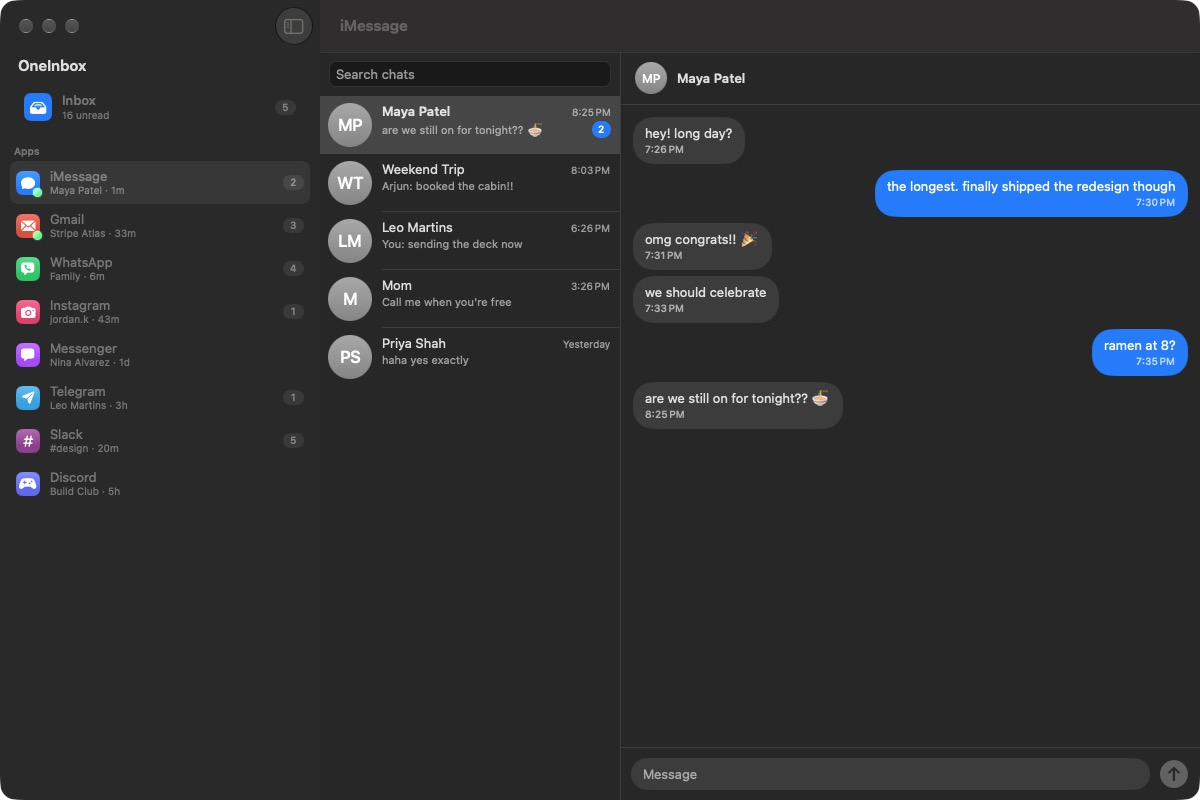
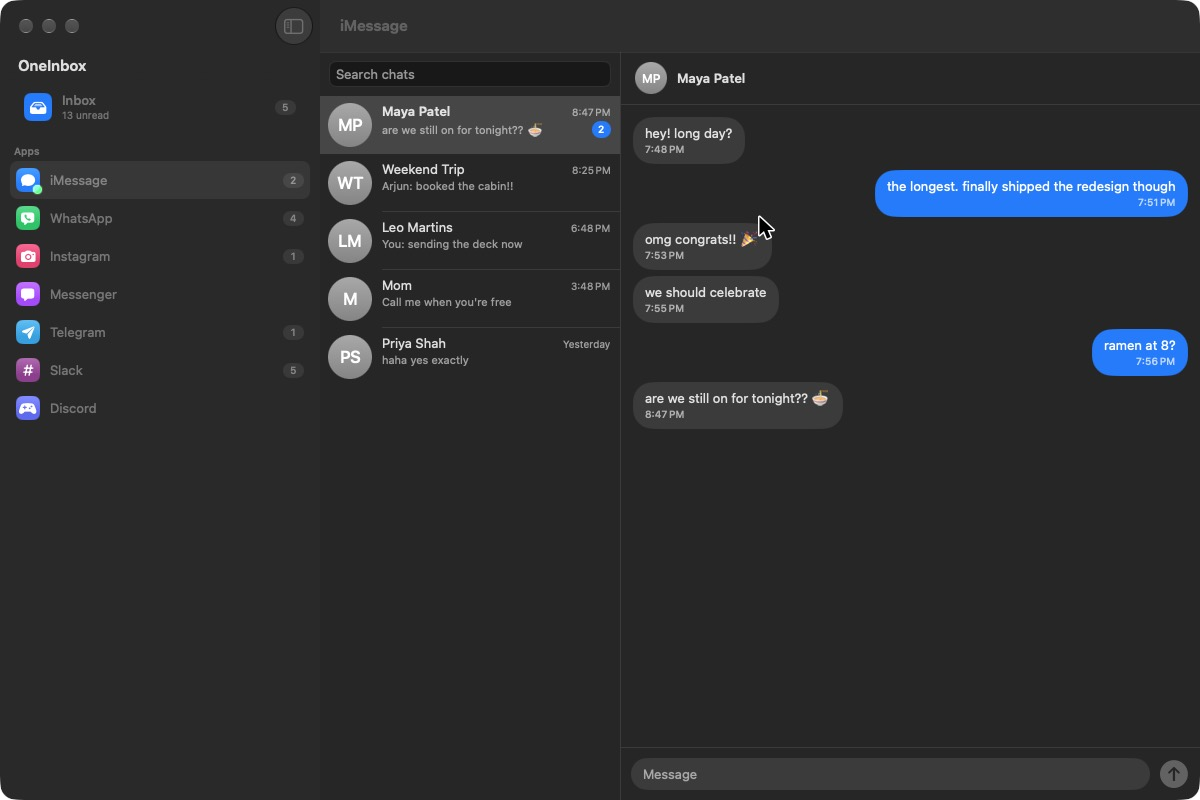
OneInbox: drop Gmail, require macOS 15, refresh screenshots

Changed region(s): [[0.0, 0.1875, 0.0925, 0.625], [0.6167, 0.2812, 0.6475, 0.3125], [0.555, 0.3125, 0.5858, 0.3438]]

diff --git a/public/apps/oneinbox/index.html b/public/apps/oneinbox/index.html
@@ -4,11 +4,11 @@
 <meta charset="utf-8">
 <meta name="viewport" content="width=device-width, initial-scale=1">
 <title>OneInbox — Every message. One quiet place. For Mac.</title>
-<meta name="description" content="OneInbox brings iMessage, Gmail, WhatsApp, Instagram, Messenger, Telegram, Slack and Discord into one calm, native Mac app. Early access: $19 one-time.">
+<meta name="description" content="OneInbox brings iMessage, WhatsApp, Instagram, Messenger, Telegram, Slack and Discord into one calm, native Mac app. Early access: $19 one-time.">
 <link rel="icon" type="image/png" href="/apps/oneinbox/icon.png">
 <link rel="apple-touch-icon" href="/apps/oneinbox/icon.png">
 <meta property="og:title" content="OneInbox — Every message. One quiet place.">
-<meta property="og:description" content="iMessage, Gmail, WhatsApp, Instagram, Messenger, Telegram, Slack and Discord in one native Mac app.">
+<meta property="og:description" content="iMessage, WhatsApp, Instagram, Messenger, Telegram, Slack and Discord in one native Mac app.">
 <meta property="og:image" content="https://www.dashovia.com/apps/oneinbox/inbox.jpg">
 <meta property="og:url" content="https://www.dashovia.com/apps/oneinbox/">
 <meta name="twitter:card" content="summary_large_image">
@@ -119,20 +119,20 @@
 <main>
   <header class="hero">
     <div class="wrap">
-      <span class="pill">Early access · macOS 14 or later</span>
+      <span class="pill">Early access · macOS 15 or later</span>
       <h1>Every message. One quiet place.</h1>
-      <p class="lede">OneInbox brings iMessage, Gmail, WhatsApp and the rest of your chats into one calm, native Mac app. Stop checking eight apps. Check one.</p>
+      <p class="lede">OneInbox brings iMessage, WhatsApp, Slack and the rest of your chats into one calm, native Mac app. Stop checking seven apps. Check one.</p>
       <div class="cta">
         <a class="btn buy" href="#pricing">Get early access — $19</a>
         <a class="btn ghost" href="#features">See how it works ›</a>
       </div>
       <p class="faint cta-note">One-time payment. Goes up to $29 at version 1.0.</p>
       <div class="apps" aria-label="Supported apps">
-        <span>iMessage</span><span>Gmail</span><span>WhatsApp</span><span>Instagram</span>
+        <span>iMessage</span><span>WhatsApp</span><span>Instagram</span>
         <span>Messenger</span><span>Telegram</span><span>Slack</span><span>Discord</span>
       </div>
       <div class="shot">
-        <img src="/apps/oneinbox/inbox.jpg" width="1200" height="800" alt="The OneInbox window: a sidebar of apps with unread counts, and an inbox listing new messages from iMessage, WhatsApp, Slack, Gmail, Instagram and Telegram.">
+        <img src="/apps/oneinbox/inbox.jpg" width="1200" height="800" alt="The OneInbox window: a sidebar of apps with unread counts, and an inbox listing new messages from iMessage, WhatsApp, Slack, Messenger, Instagram and Telegram.">
       </div>
     </div>
   </header>
@@ -143,8 +143,8 @@
       <p class="lede">No neon, no noise. Just your conversations, in the order they happened.</p>
       <div class="grid" style="text-align:left">
         <div class="card"><h3>One inbox</h3><p>New messages from every app land in a single feed, grouped by time. Filter by app or unread in one click.</p></div>
-        <div class="card"><h3>Reply in place</h3><p>iMessage, Gmail, Telegram and Slack open as native chats. Read and reply without switching apps.</p></div>
-        <div class="card"><h3>Never miss a thing</h3><p>One badge, one menu bar icon, one set of notifications. Jump between apps with ⌘1 to ⌘8.</p></div>
+        <div class="card"><h3>Reply in place</h3><p>iMessage, Telegram and Slack open as native chats. Read and reply without switching apps.</p></div>
+        <div class="card"><h3>Never miss a thing</h3><p>One badge, one menu bar icon, one set of notifications. Jump between apps with ⌘1 to ⌘7.</p></div>
         <div class="card"><h3>Private by design</h3><p>No OneInbox servers and no accounts. Your messages go straight between your Mac and each service.</p></div>
         <div class="card"><h3>Locked down</h3><p>Keys stay in your Mac's Keychain. Telegram data is encrypted on disk. Pages that leave a service are clearly flagged.</p></div>
         <div class="card"><h3>Signed by Apple</h3><p>Signed with a Developer ID and notarized by Apple, so it opens like any app you trust.</p></div>
@@ -159,7 +159,6 @@
         <p class="lede" style="margin-top:16px">Open a conversation and answer it right there, in a window that feels like Messages.</p>
         <ul class="list">
           <li><b>iMessage &amp; SMS</b> — read from your Mac, sent through Messages.</li>
-          <li><b>Gmail</b> — threads, replies and read status through Google's official API.</li>
           <li><b>Telegram &amp; Slack</b> — real-time, through their official APIs.</li>
           <li><b>WhatsApp, Instagram, Messenger, Discord</b> — their official web apps, built in.</li>
         </ul>
@@ -179,7 +178,7 @@
         <p class="faint">Price rises to $29 at version 1.0.</p>
         <ul>
           <li>OneInbox for Mac, signed and notarized</li>
-          <li>All eight apps, plus every 1.x update</li>
+          <li>All seven apps, plus every 1.x update</li>
           <li>Download link emailed right after purchase</li>
           <li>14-day no-questions refund</li>
         </ul>
@@ -193,11 +192,11 @@
     <div class="wrap">
       <h2 class="center">Questions</h2>
       <div class="faq">
-        <details><summary>What do I need?</summary><p>A Mac running macOS 14 Sonoma or later, Apple silicon or Intel.</p></details>
+        <details><summary>What do I need?</summary><p>A Mac running macOS 15 Sequoia or later, Apple silicon or Intel.</p></details>
         <details><summary>How do I get the app after paying?</summary><p>Right after checkout you get an email from Dodo Payments with a download link for the OneInbox installer (a .dmg file). You can get fresh links any time from the customer portal linked in that email.</p></details>
         <details><summary>How does iMessage work?</summary><p>OneInbox reads your Messages history on your Mac and sends replies through the Messages app. macOS asks you once to allow Full Disk Access. Nothing is uploaded anywhere.</p></details>
         <details><summary>How do WhatsApp, Instagram, Messenger and Discord work?</summary><p>OneInbox runs each service's official web app inside its own tab and collects new-message notifications into your inbox. You sign in once, the same way you would in a browser.</p></details>
-        <details><summary>Is there any setup for Gmail, Telegram or Slack?</summary><p>Yes, a short one-time setup. Gmail and Telegram need a free API key from Google or Telegram, and Slack needs a small private Slack app. OneInbox walks you through each step.</p></details>
+        <details><summary>Is there any setup for Telegram or Slack?</summary><p>Only if you want them native. They work as web apps out of the box. For native chats, Telegram needs a free API key from Telegram, and Slack needs a small private Slack app. OneInbox walks you through each step.</p></details>
         <details><summary>Is there an iPhone version?</summary><p>Not right now. OneInbox is made for the Mac.</p></details>
         <details><summary>Can I get a refund?</summary><p>Yes. Email us within 14 days of purchase and we'll refund you in full. See the <a href="/apps/oneinbox/refunds/">refund policy</a>.</p></details>
       </div>
@@ -215,7 +214,7 @@
     <a href="/apps/oneinbox/refunds/">Refunds</a>
     <a href="mailto:contact@dashovia.app">Contact</a>
     <a href="/#apps">More apps</a>
-    <p class="legal">OneInbox is not affiliated with or endorsed by Apple, Google, Meta, Telegram, Slack or Discord. All product names and trademarks belong to their respective owners.</p>
+    <p class="legal">OneInbox is not affiliated with or endorsed by Apple, Meta, Telegram, Slack or Discord. All product names and trademarks belong to their respective owners.</p>
   </div>
 </footer>
 

diff --git a/public/apps/oneinbox/terms/index.html b/public/apps/oneinbox/terms/index.html
@@ -33,10 +33,10 @@
 <p>When you buy OneInbox you get a personal, non-transferable license to install and use it on Macs you own or control. The early-access price includes all 1.x updates. You may not resell, redistribute or reverse-engineer the app, except where the law allows.</p>
 
 <h2>Early access</h2>
-<p>OneInbox is in early access. Features may change, and some integrations need a one-time setup (for example your own Google, Telegram or Slack API keys).</p>
+<p>OneInbox is in early access. Features may change, and some integrations need a one-time setup (for example your own Telegram or Slack API keys).</p>
 
 <h2>Third-party services</h2>
-<p>OneInbox connects to services run by other companies, including Apple, Google, Meta, Telegram, Slack and Discord. We don't control them. They may change or limit access at any time, which can affect how OneInbox works. You are responsible for following each service's own terms. OneInbox is not affiliated with or endorsed by any of them.</p>
+<p>OneInbox connects to services run by other companies, including Apple, Meta, Telegram, Slack and Discord. We don't control them. They may change or limit access at any time, which can affect how OneInbox works. You are responsible for following each service's own terms. OneInbox is not affiliated with or endorsed by any of them.</p>
 
 <h2>Payments and refunds</h2>
 <p>Orders are processed by Dodo Payments, our merchant of record, which may charge applicable taxes. Refunds are covered by our <a href="/apps/oneinbox/refunds/">Refund Policy</a>.</p>

diff --git a/public/apps/oneinbox/privacy/index.html b/public/apps/oneinbox/privacy/index.html
@@ -34,10 +34,10 @@
 
 <h2>Inside the app</h2>
 <ul>
-  <li><strong>Messages</strong> are fetched directly from each service (Apple Messages on your Mac, Gmail, Telegram, Slack, WhatsApp, Instagram, Messenger, Discord) and shown on your Mac. They are not sent to Dashovia.</li>
+  <li><strong>Messages</strong> are fetched directly from each service (Apple Messages on your Mac, Telegram, Slack, WhatsApp, Instagram, Messenger, Discord) and shown on your Mac. They are not sent to Dashovia.</li>
   <li><strong>iMessage</strong> history is read locally from your Mac's Messages database, read-only, after you grant Full Disk Access. Replies are sent through the Messages app.</li>
   <li><strong>Contacts</strong> are read locally, if you allow it, only to show names instead of phone numbers.</li>
-  <li><strong>Sign-ins and keys</strong> (Google, Telegram, Slack) are stored in your Mac's Keychain. Telegram's local data is encrypted on disk.</li>
+  <li><strong>Sign-ins and keys</strong> (Telegram, Slack) are stored in your Mac's Keychain. Telegram's local data is encrypted on disk.</li>
   <li><strong>Web apps</strong> (WhatsApp, Instagram, Messenger, Discord) run inside OneInbox like in a browser. Their cookies stay on your Mac, and their own privacy policies apply.</li>
 </ul>
 <p>Each service you connect has its own terms and privacy policy, and your use of it is governed by them.</p>
